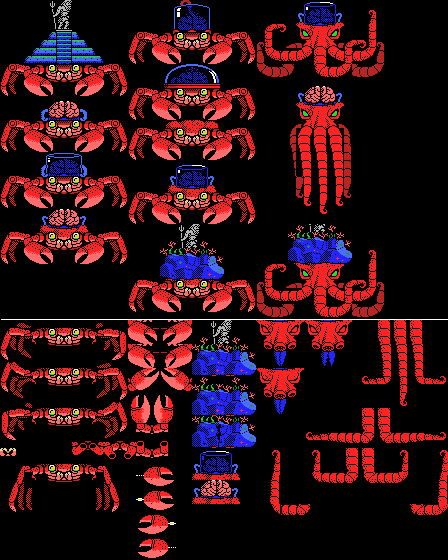
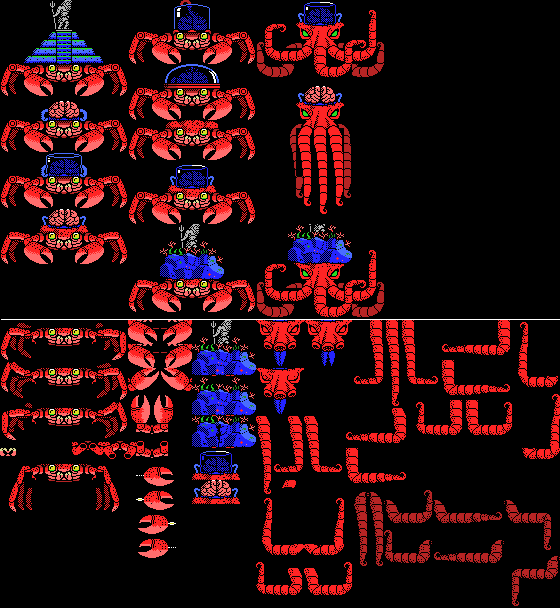
all tentacle gfx for scylla

diff --git a/java/src/xspelunker2/Bosses.java b/java/src/xspelunker2/Bosses.java
@@ -367,7 +367,7 @@ public static int atlantis_boss_collision[] = {
         List<Integer> nameTableDataCharybdis = new ArrayList<>();        
         {
             // Charybdis + walk + island:
-            String bossBaseTiles = "data/boss5-base-tiles-charybdis.png";  // these have the island built-in
+            String bossBaseTiles = "data/boss5-base-tiles-charybdis.png";
             String boss5Tiles = "data/boss5.png";
             boolean availableTiles[] = new boolean[256];
             int collision[] = new int[256];
@@ -378,7 +378,7 @@ public static int atlantis_boss_collision[] = {
             nameTableBoxes.add(new int[]{0, 320, 128, 560});  // crab walk
             nameTableBoxes.add(new int[]{0, 464, 128, 512});  // crab jump
             nameTableBoxes.add(new int[]{192, 320, 256, 448});  // island
-            List<int[][]> nametables = addBossTilesInGapsForBoxes(nameTableBoxes, baseImage, boss5Tiles, availableTiles, collision, false, false);
+            List<int[][]> nametables = addBossTilesInGapsForBoxes(nameTableBoxes, baseImage, boss5Tiles, availableTiles, collision, false, true);
 
             ImageIO.write(baseImage, "png", new File("data/boss5-tiles-charybdis1.png"));
 
@@ -392,7 +392,7 @@ public static int atlantis_boss_collision[] = {
 
         {
             // Charybdis + walk + brain:
-            String bossBaseTiles = "data/boss5-base-tiles-charybdis.png";  // these have the island built-in
+            String bossBaseTiles = "data/boss5-base-tiles-charybdis.png";
             String boss5Tiles = "data/boss5.png";
             boolean availableTiles[] = new boolean[256];
             int collision[] = new int[256];
@@ -415,7 +415,7 @@ public static int atlantis_boss_collision[] = {
         
         {
             // Charybdis + brain + claw attack:
-            String bossBaseTiles = "data/boss5-base-tiles-charybdis.png";  // these have the island built-in
+            String bossBaseTiles = "data/boss5-base-tiles-charybdis.png";
             String boss5Tiles = "data/boss5.png";
             boolean availableTiles[] = new boolean[256];
             int collision[] = new int[256];
@@ -440,8 +440,7 @@ public static int atlantis_boss_collision[] = {
         Z80Assembler.dataToBinary(nameTableDataCharybdis, "src/autogenerated/boss5-nametables-charybdis.bin");       
         
         {
-            // Create a base image that just has the crab tiles:
-            // Charybdis body:
+            // Scylla body:
             String bossBaseTiles = "data/boss5-base-tiles.png";
             String boss5Tiles = "data/boss5.png";
             boolean availableTiles[] = new boolean[256];
@@ -450,12 +449,55 @@ public static int atlantis_boss_collision[] = {
             BufferedImage baseImage = ImageIO.read(new File(bossBaseTiles));        
 
             List<int[]> nameTableBoxes = new ArrayList<>();
-            nameTableBoxes.add(new int[]{256, 320, 448, 560});  // octopus body and tentacles
+            nameTableBoxes.add(new int[]{256, 320, 560, 608});  // octopus body and tentacles
             addBossTilesInGapsForBoxes(nameTableBoxes, baseImage, boss5Tiles, availableTiles, collision, false, false);
 
             ImageIO.write(baseImage, "png", new File("data/boss5-base-tiles-scylla.png"));        
         }
 
+        {
+            // Scylla body + island:
+            String bossBaseTiles = "data/boss5-base-tiles-scylla.png";
+            String boss5Tiles = "data/boss5.png";
+            boolean availableTiles[] = new boolean[256];
+            int collision[] = new int[256];
+            findAvailableBossTiles(bossBaseTiles, availableTiles, collision, atlantis_boss_collision, true);
+            BufferedImage baseImage = ImageIO.read(new File(bossBaseTiles));        
+
+            List<int[]> nameTableBoxes = new ArrayList<>();
+            nameTableBoxes.add(new int[]{192, 320, 256, 448});  // island
+            List<int[][]> nametables = addBossTilesInGapsForBoxes(nameTableBoxes, baseImage, boss5Tiles, availableTiles, collision, false, true);
+
+            ImageIO.write(baseImage, "png", new File("data/boss5-tiles-scylla1.png"));
+
+//            int nameTable[][] = nametables.get(0);
+//            addNameTable(nameTable, 0, 0, 6, 4, nameTableData);  // vat (0)
+//            addNameTable(nameTable, 9, 4, 6, 7, nameTableData);  // brain 1 (0 + 8*7)
+            
+            GenerateTiles.extractTiles("data/boss5-tiles-scylla1.png", "src/autogenerated/boss5-tiles-scylla1", 24, 128);
+        }
+        
+        {
+            // Scylla body + brain:
+            String bossBaseTiles = "data/boss5-base-tiles-scylla.png";
+            String boss5Tiles = "data/boss5.png";
+            boolean availableTiles[] = new boolean[256];
+            int collision[] = new int[256];
+            findAvailableBossTiles(bossBaseTiles, availableTiles, collision, atlantis_boss_collision, true);
+            BufferedImage baseImage = ImageIO.read(new File(bossBaseTiles));        
+
+            List<int[]> nameTableBoxes = new ArrayList<>();
+            nameTableBoxes.add(new int[]{192, 448, 256, 512});  // brain
+            List<int[][]> nametables = addBossTilesInGapsForBoxes(nameTableBoxes, baseImage, boss5Tiles, availableTiles, collision, false, true);
+
+            ImageIO.write(baseImage, "png", new File("data/boss5-tiles-scylla2.png"));
+
+//            int nameTable[][] = nametables.get(0);
+//            addNameTable(nameTable, 0, 0, 6, 4, nameTableData);  // vat (0)
+//            addNameTable(nameTable, 9, 4, 6, 7, nameTableData);  // brain 1 (0 + 8*7)
+            
+            GenerateTiles.extractTiles("data/boss5-tiles-scylla2.png", "src/autogenerated/boss5-tiles-scylla2", 24, 128);
+        }
 //        List<Integer> nameTableDataScylla = new ArrayList<>();        
 //        // ...
 //        System.out.println("name tables: " + nameTableDataScylla.size() + " bytes");
